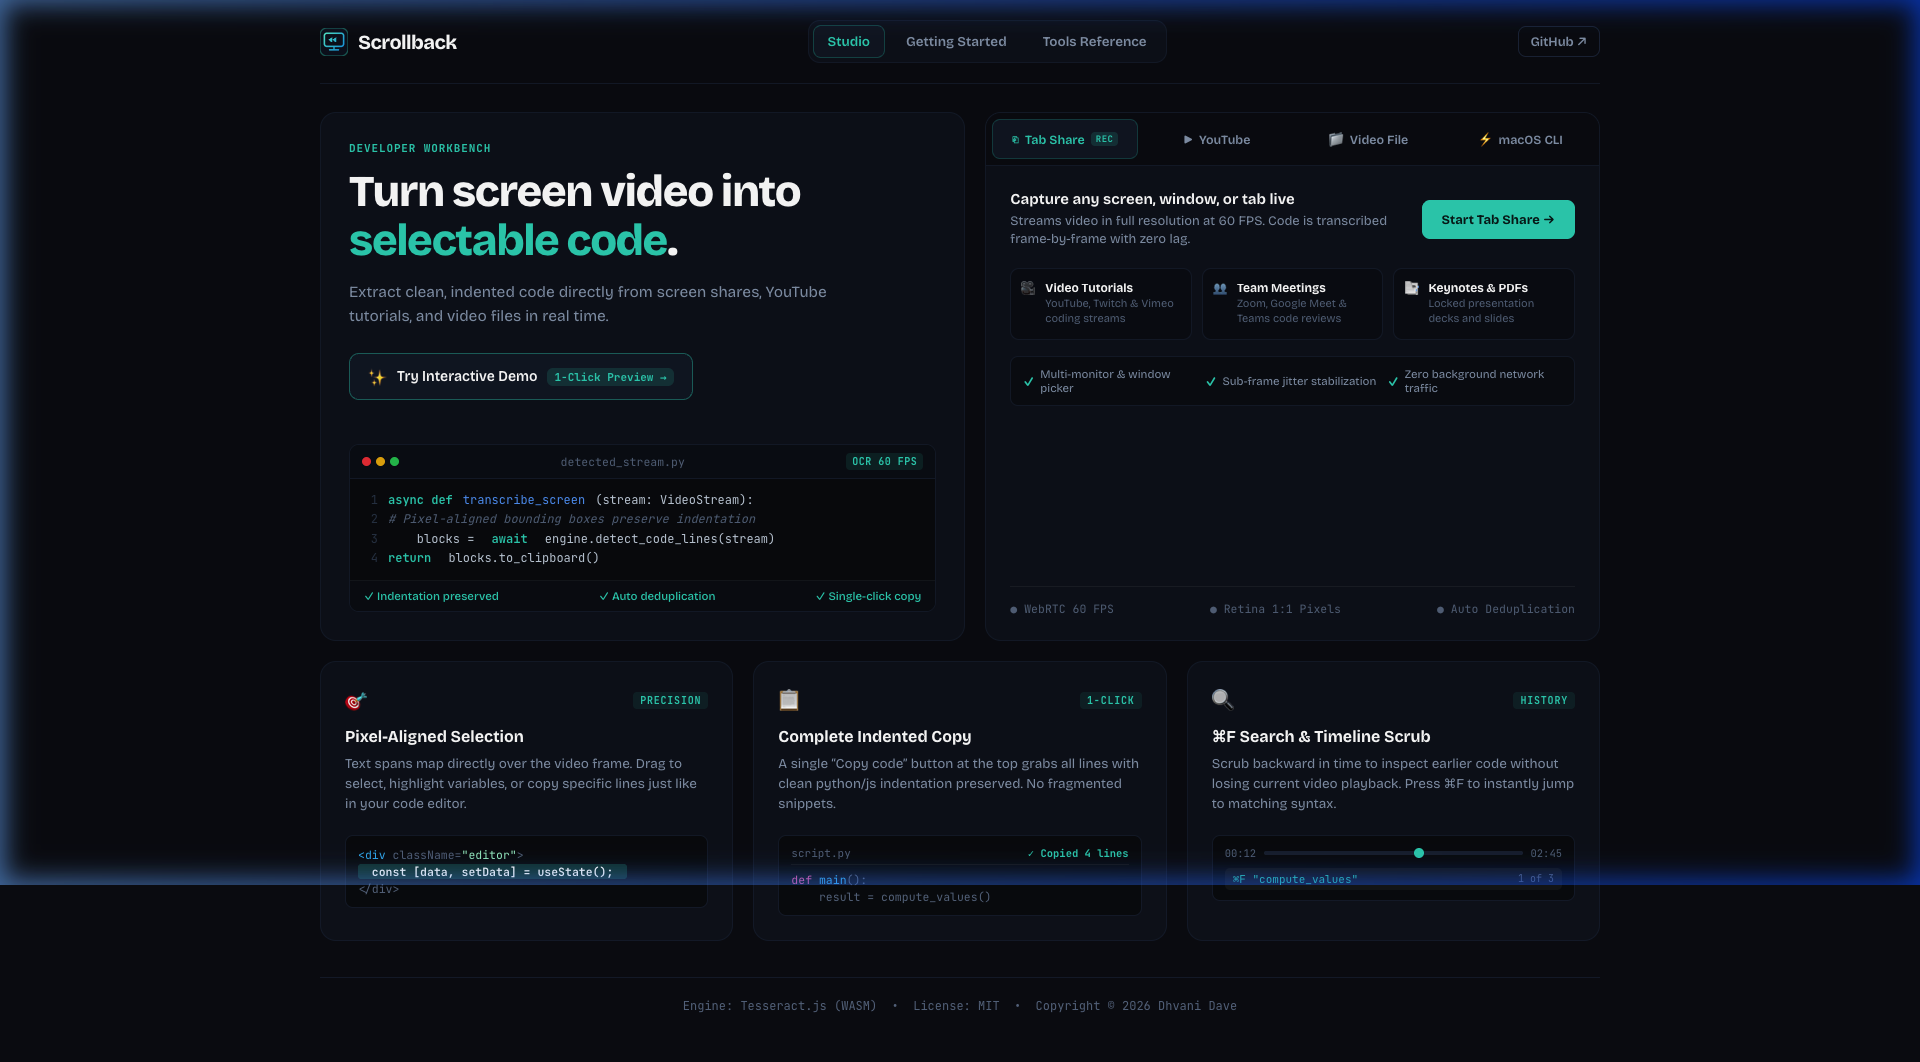
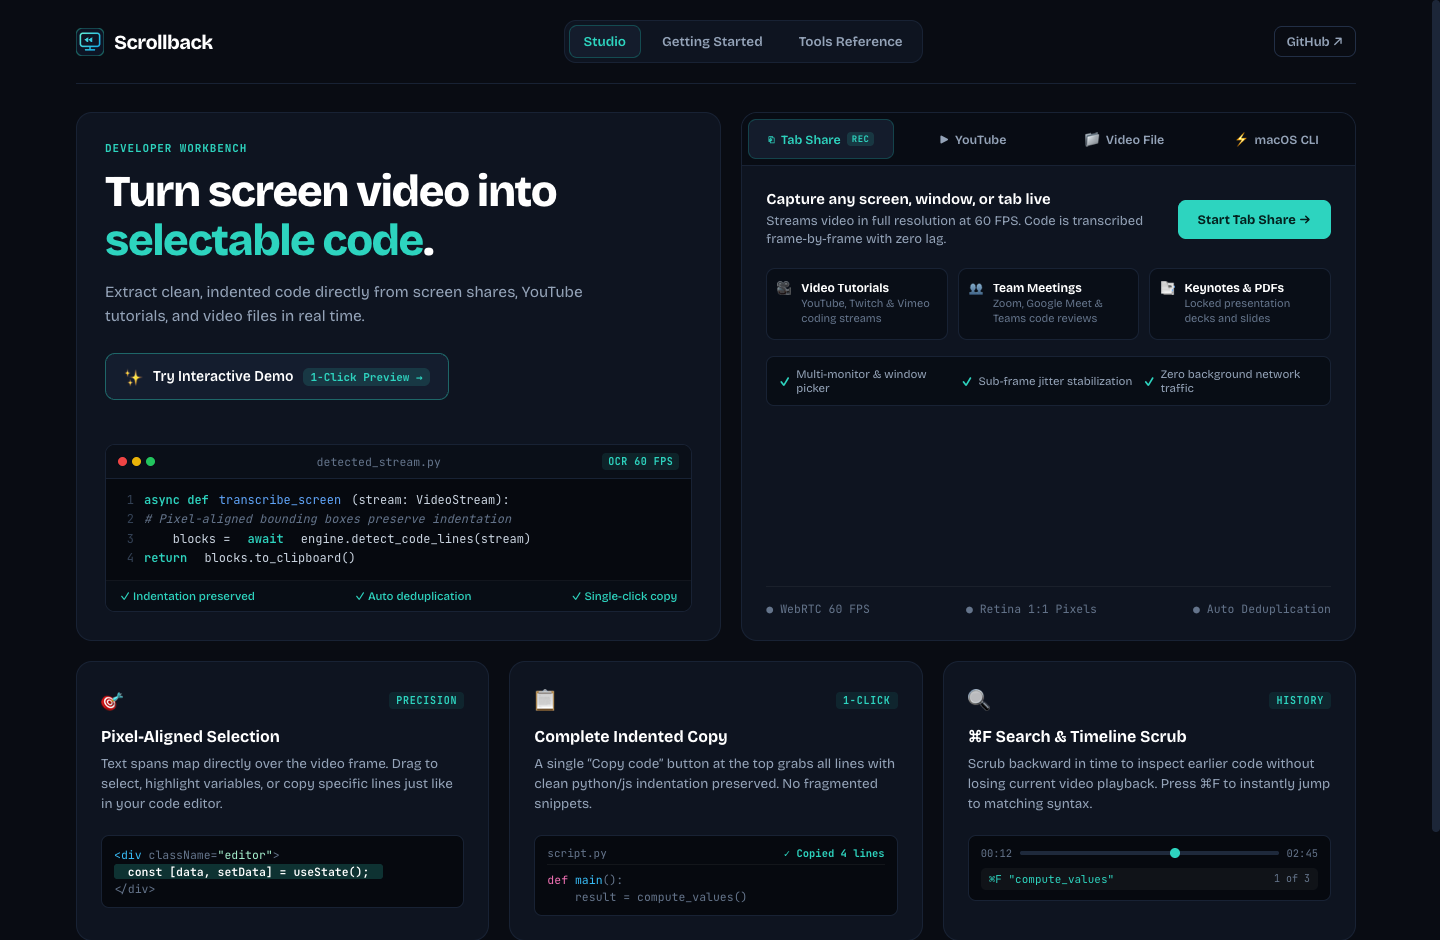
update readme and refresh workbench screenshot

diff --git a/README.md b/README.md
@@ -3,6 +3,9 @@
 > **Turn any screen video, live stream, or presentation into clean, selectable, searchable code.**
 
 [![Live Demo](https://img.shields.io/badge/Live_Demo-scrollback1.vercel.app-14b8a6?style=for-the-badge&logo=vercel)](https://scrollback1.vercel.app/)
+[![Next.js 16](https://img.shields.io/badge/Next.js-16.1.1-black?style=for-the-badge&logo=next.js)](https://nextjs.org/)
+[![React 19](https://img.shields.io/badge/React-19-61dafb?style=for-the-badge&logo=react)](https://react.dev/)
+[![TypeScript](https://img.shields.io/badge/TypeScript-5-3178c6?style=for-the-badge&logo=typescript)](https://www.typescriptlang.org/)
 [![License: MIT](https://img.shields.io/badge/License-MIT-blue.svg?style=for-the-badge)](LICENSE)
 
 🌐 **Live Demo:** [https://scrollback1.vercel.app/](https://scrollback1.vercel.app/)
@@ -13,28 +16,32 @@ Viewers open a link in their browser and can highlight, copy code blocks with pr
 
 ---
 
-## ⚡ What is Scrollback?
+## ⚡ Key Highlights
 
-When watching technical video tutorials, live coding streams, or remote presentations, viewers often struggle to:
-- Copy terminal commands or code snippets without typing them out manually.
-- Pause and review earlier lines of code without interrupting the presenter or video playback.
-- Search for specific variables, functions, or error messages across past video frames.
-
-**Scrollback solves this directly in your browser:**
-1. **Interactive Text Layer & Clean Code View**: OCR transcribes screen frames in real time with pixel-aligned text. Toggle between visual video overlays and a distraction-free dark code editor view with 1-click `Copy code`.
-2. **Timeline & Historical Search (`⌘F`)**: Scrub through previous screens and search keywords across all captured frames.
-3. **Multi-Source Capture**:
-   - **Chrome Tab / Window**: Capture any browser tab or local app with change detection.
-   - **YouTube Video**: Stream tutorials with synchronized code extraction and playback speed controls. *(🚧 In progress: YouTube Playlist button for multi-video series).*
-   - **Video Files**: Drag-and-drop `.mp4` or `.webm` recordings for fast offline scanning.
-   - **Mac CLI (`capture-mac`)**: Native ScreenCaptureKit streaming with Apple Vision OCR and end-to-end AES-256-GCM encryption.
-4. **100% Private & Client-Side**: Browser OCR runs locally via Tesseract.js (WASM). No screen recordings or OCR text ever leave your computer.
+- **📝 Clean Code View**: Toggle between the visual video canvas and a distraction-free dark code editor view with standard text selection and unified **1-Click `Copy code`**.
+- **▥ Dual Viewport Layouts**: Switch instantly between **Side-by-Side View** (50/50 parallel video & code) and **Stacked View** (full-width stacked reader) depending on your screen size.
+- **🔍 Timeline Scrubbing & ⌘F Search**: Scrub backward through past video history without interrupting playback, or press `⌘F` to search keywords, function names, and syntax across all frames.
+- **🚀 Multi-Source Ingestion**:
+  - **Live Chrome Tab / Window**: Capture coding streams or webinars at 60 FPS with adaptive change detection.
+  - **YouTube Tutorials**: Paste any tutorial URL to stream video with synchronized code extraction.
+  - **Video Files**: Drag-and-drop `.mp4` or `.webm` recordings for rapid offline scanning.
+  - **Mac CLI (`capture-mac`)**: Native ScreenCaptureKit streaming with Apple Vision OCR and zero-knowledge encryption.
+- **🔒 100% Private & Client-Side**: OCR runs entirely inside your browser via Tesseract.js (WebAssembly). No screen recordings or OCR text ever leave your machine.
 
 | 📺 Side-by-Side YouTube Reader | 📝 Clean Code View (1-Click Copy) |
 | :---: | :---: |
 | ![YouTube Video & Code Reader](docs/screenshots/youtube-reader.png) | ![Clean Code Text View](docs/screenshots/code-view.png) |
 
-> 🚧 **Work in Progress:** We are currently working on a dedicated **YouTube Playlist** button and batch extraction engine to automatically scan, organize, and export code chapters across full multi-video tutorial series.
+---
+
+## 🚧 Feature Roadmap
+
+| Feature | Status | Description |
+| :--- | :---: | :--- |
+| **YouTube Playlist Batch Extractor** | 🟡 *In Progress* | Automatically queue, scan, and export code chapters across complete multi-video tutorial series. |
+| **One-Click Full Tutorial Export** | 🟢 *Planned* | Download all detected unique snippets from a full video session into a clean `.md` or `.py` / `.ts` archive. |
+| **Multi-Language Syntax Highlighting** | 🟢 *Live* | Automatic token detection for Python, TypeScript, JavaScript, Rust, Go, HTML, and Shell scripts. |
+| **Encrypted Presenter Relay** | 🟢 *Live* | Zero-knowledge `AES-256-GCM` live screen sharing via WebSocket relay. |
 
 ---
 
